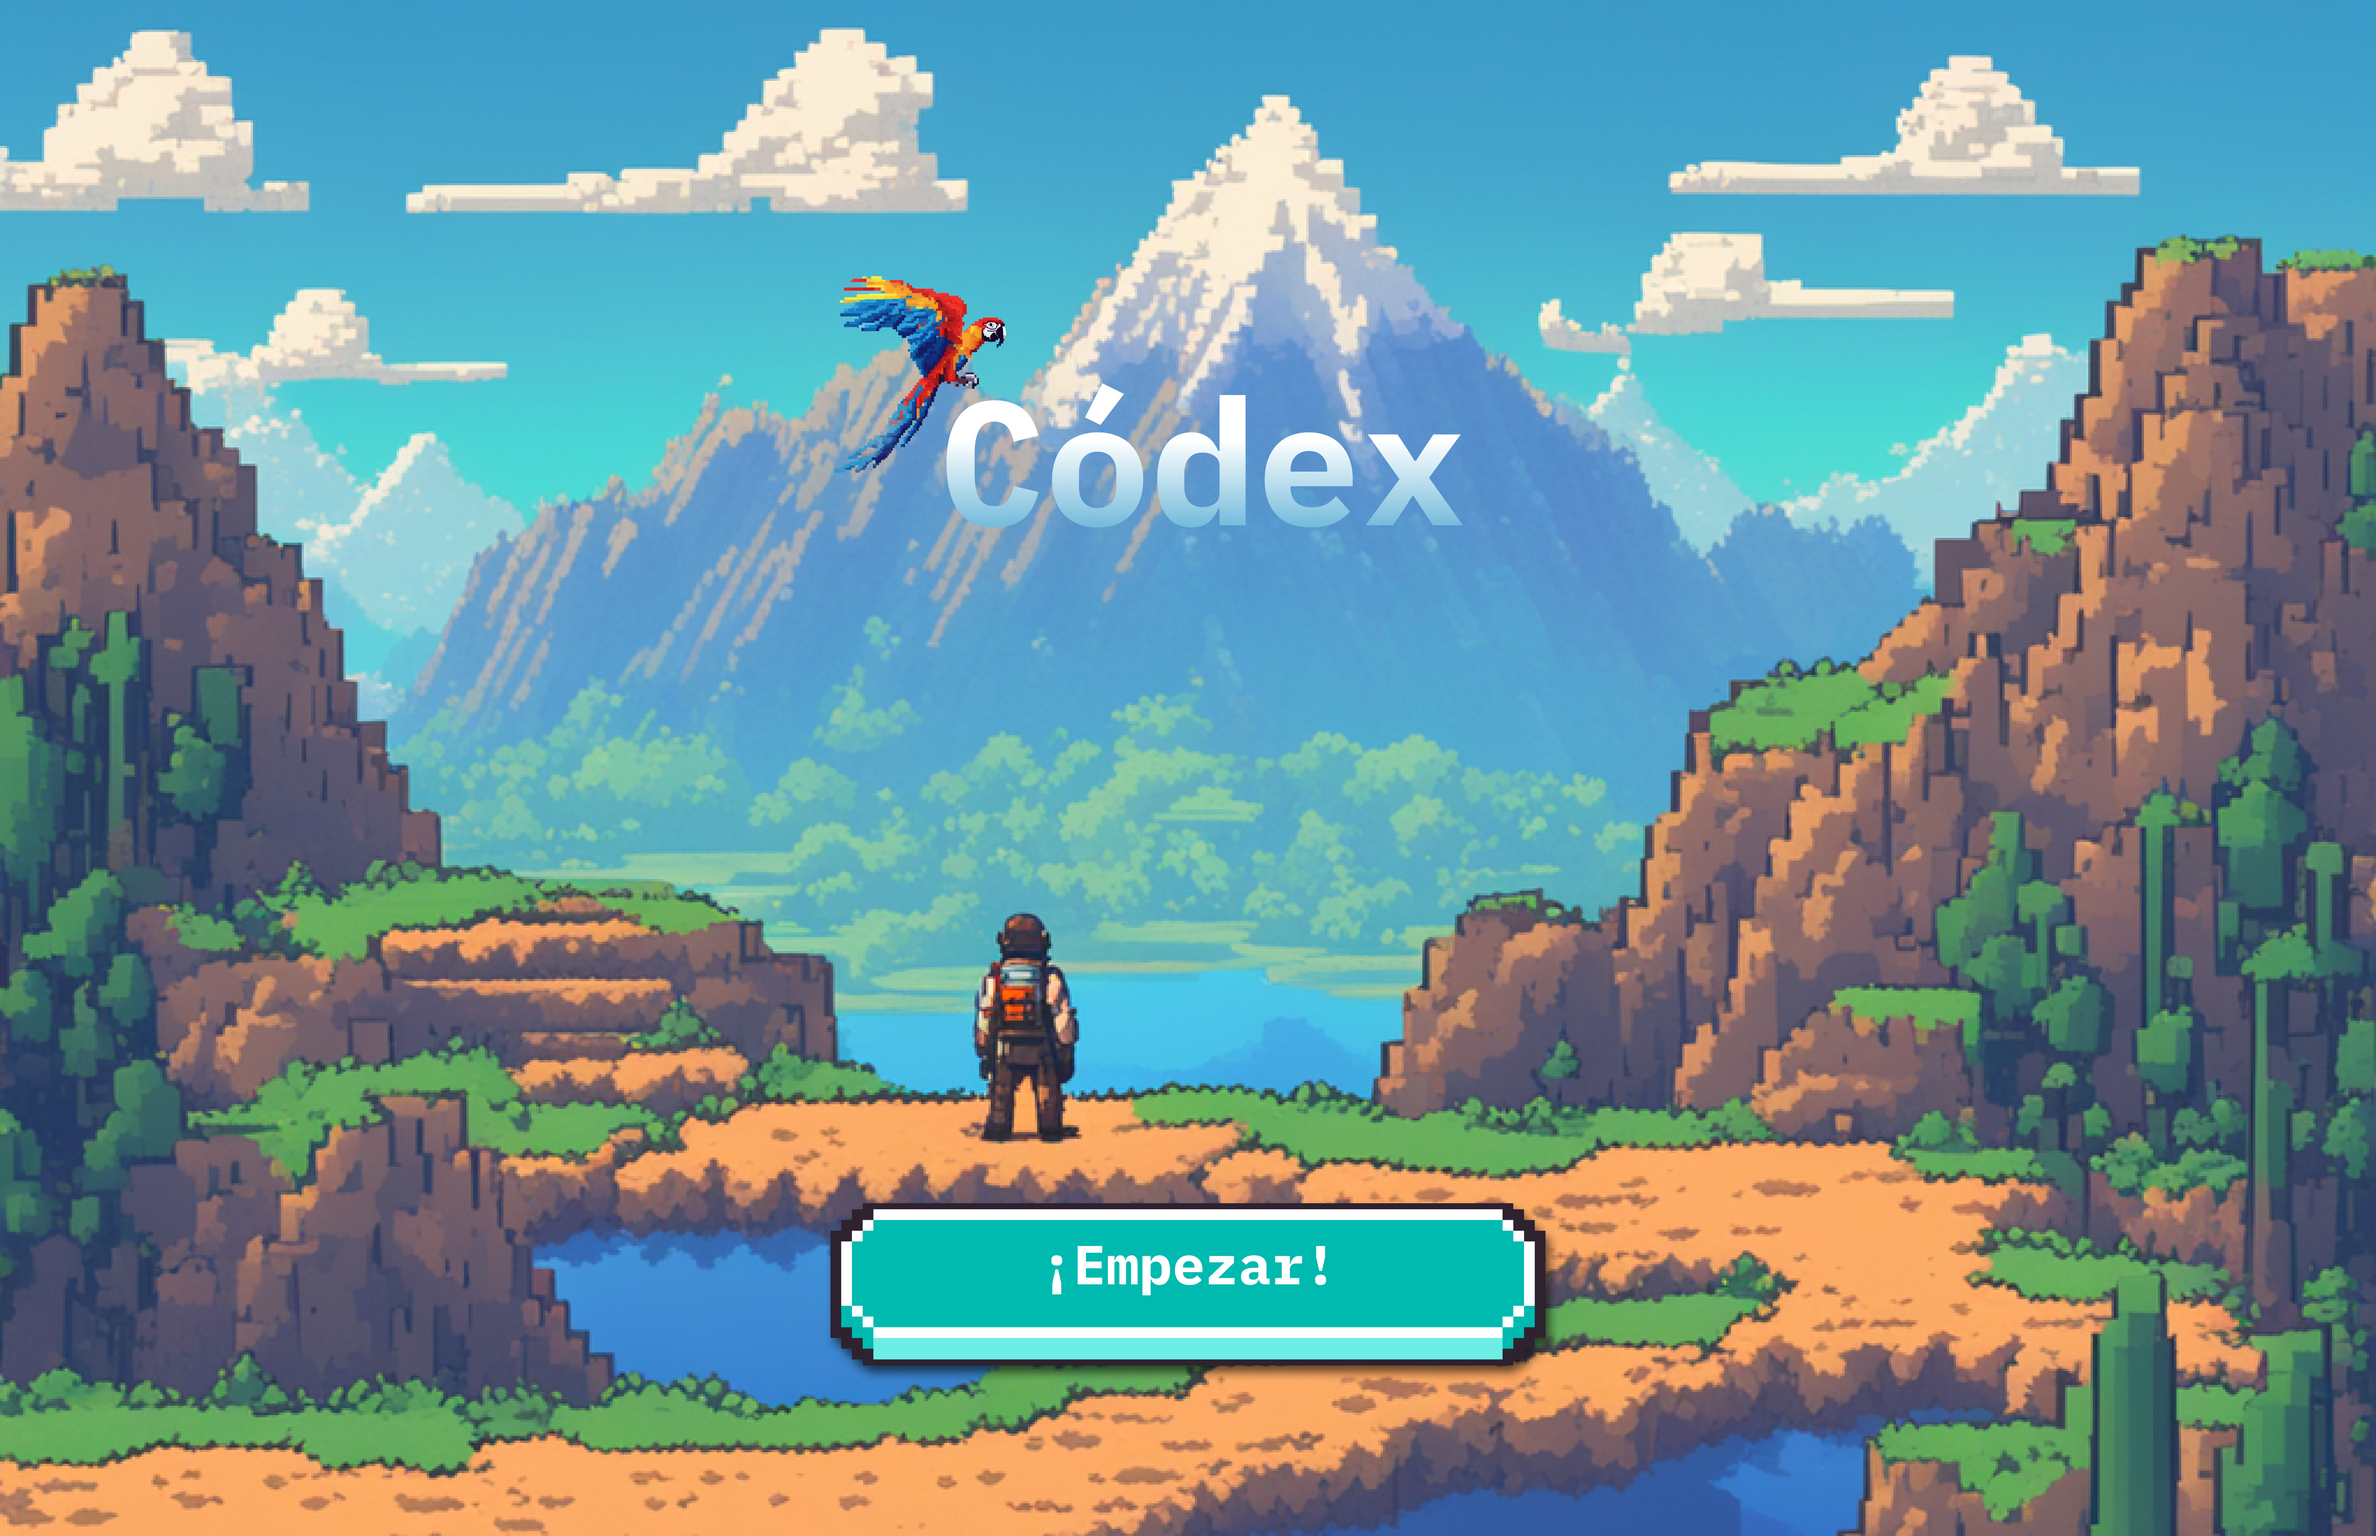
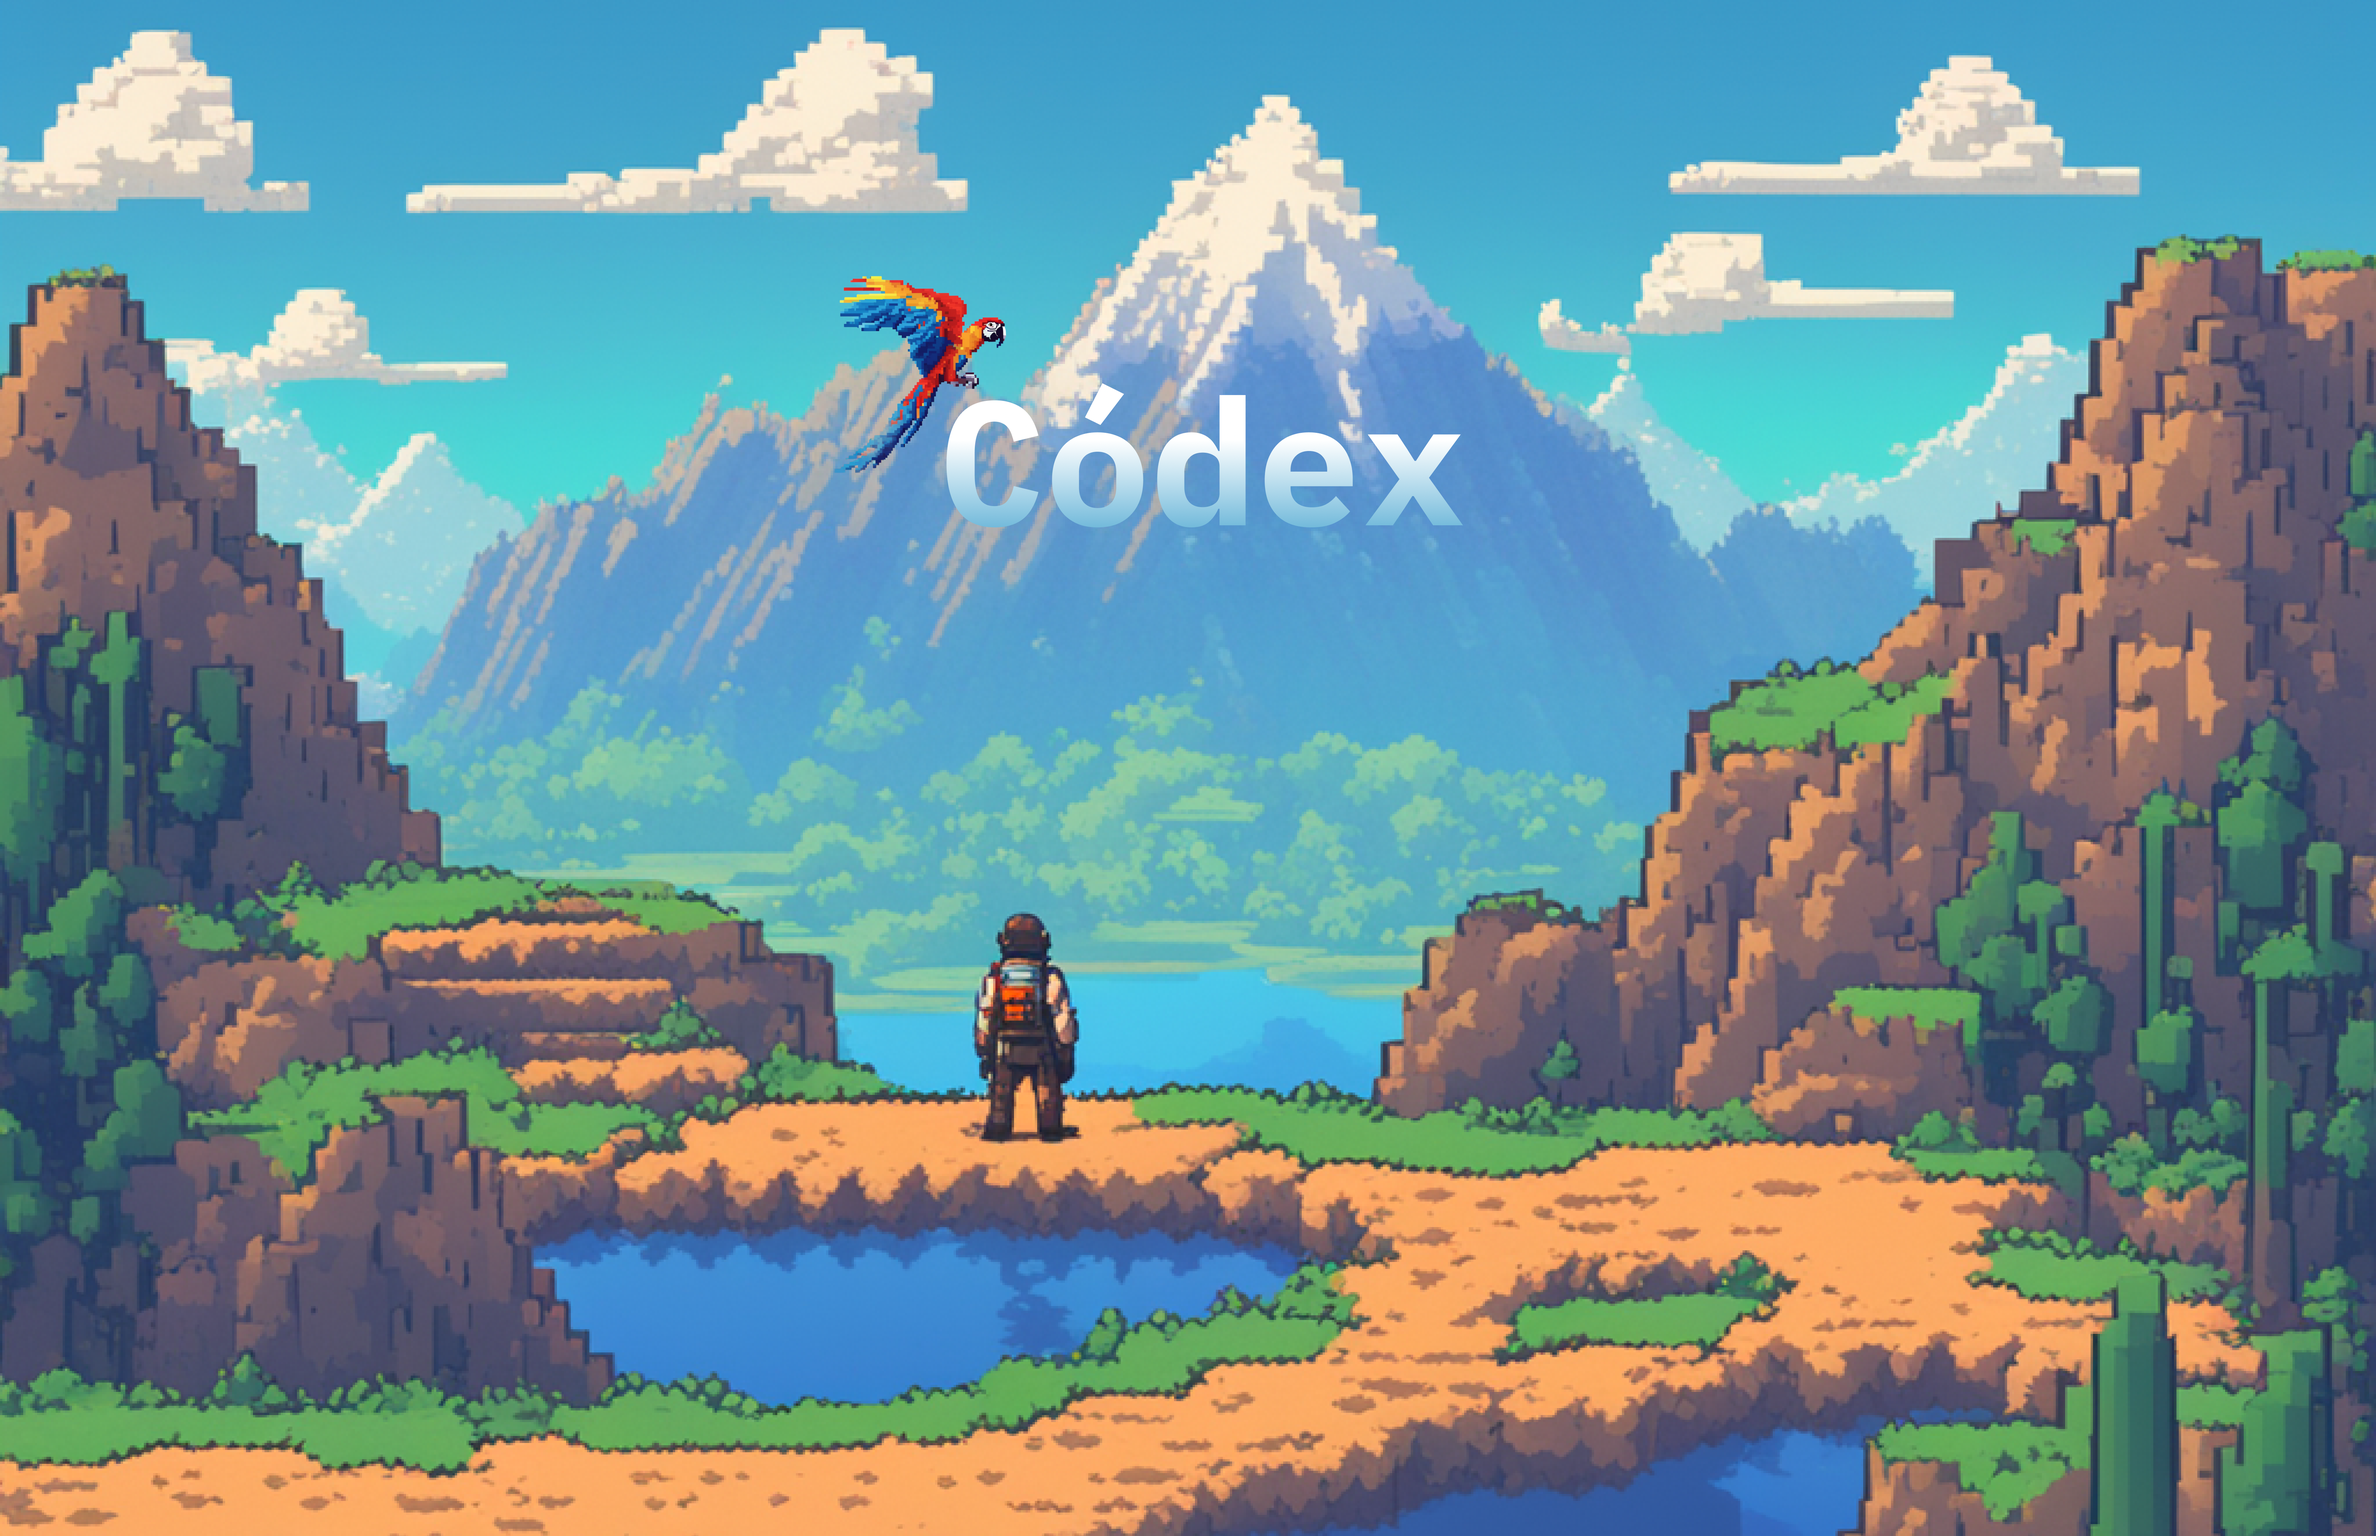
anexo de estructura de carpetas

Changed region(s): [[0.3438, 0.7778, 0.6562, 0.9022]]

diff --git a/lib/pages/screen_welcome/welcome.dart b/lib/pages/screen_welcome/welcome.dart
@@ -6,12 +6,31 @@ class welcome extends StatelessWidget {
   @override
   Widget build(BuildContext context) {
     return Scaffold(
-      body: Container(
-        constraints: BoxConstraints.expand(),
-        child: Image.asset(
-          'assets/Inicio.png',
-          fit: BoxFit.cover,
-        ),
+      body: Stack(
+        fit: StackFit.expand,
+        children: [
+          Image.asset(
+            'assets/Inicio.png',
+            fit: BoxFit.cover,
+          ),
+          Positioned(
+            left: 0,
+            right: 0,
+            bottom: 20,
+            child: Container(
+              margin: EdgeInsets.symmetric(horizontal: 20),
+              child: IconButton(
+                onPressed: () {
+                  print('Boton presionado');
+                },
+                iconSize: 100,
+                icon: Image.asset(
+                  'assets/Bttn.png',
+                ),
+              ),
+            ),
+          ),
+        ],
       ),
     );
   }
